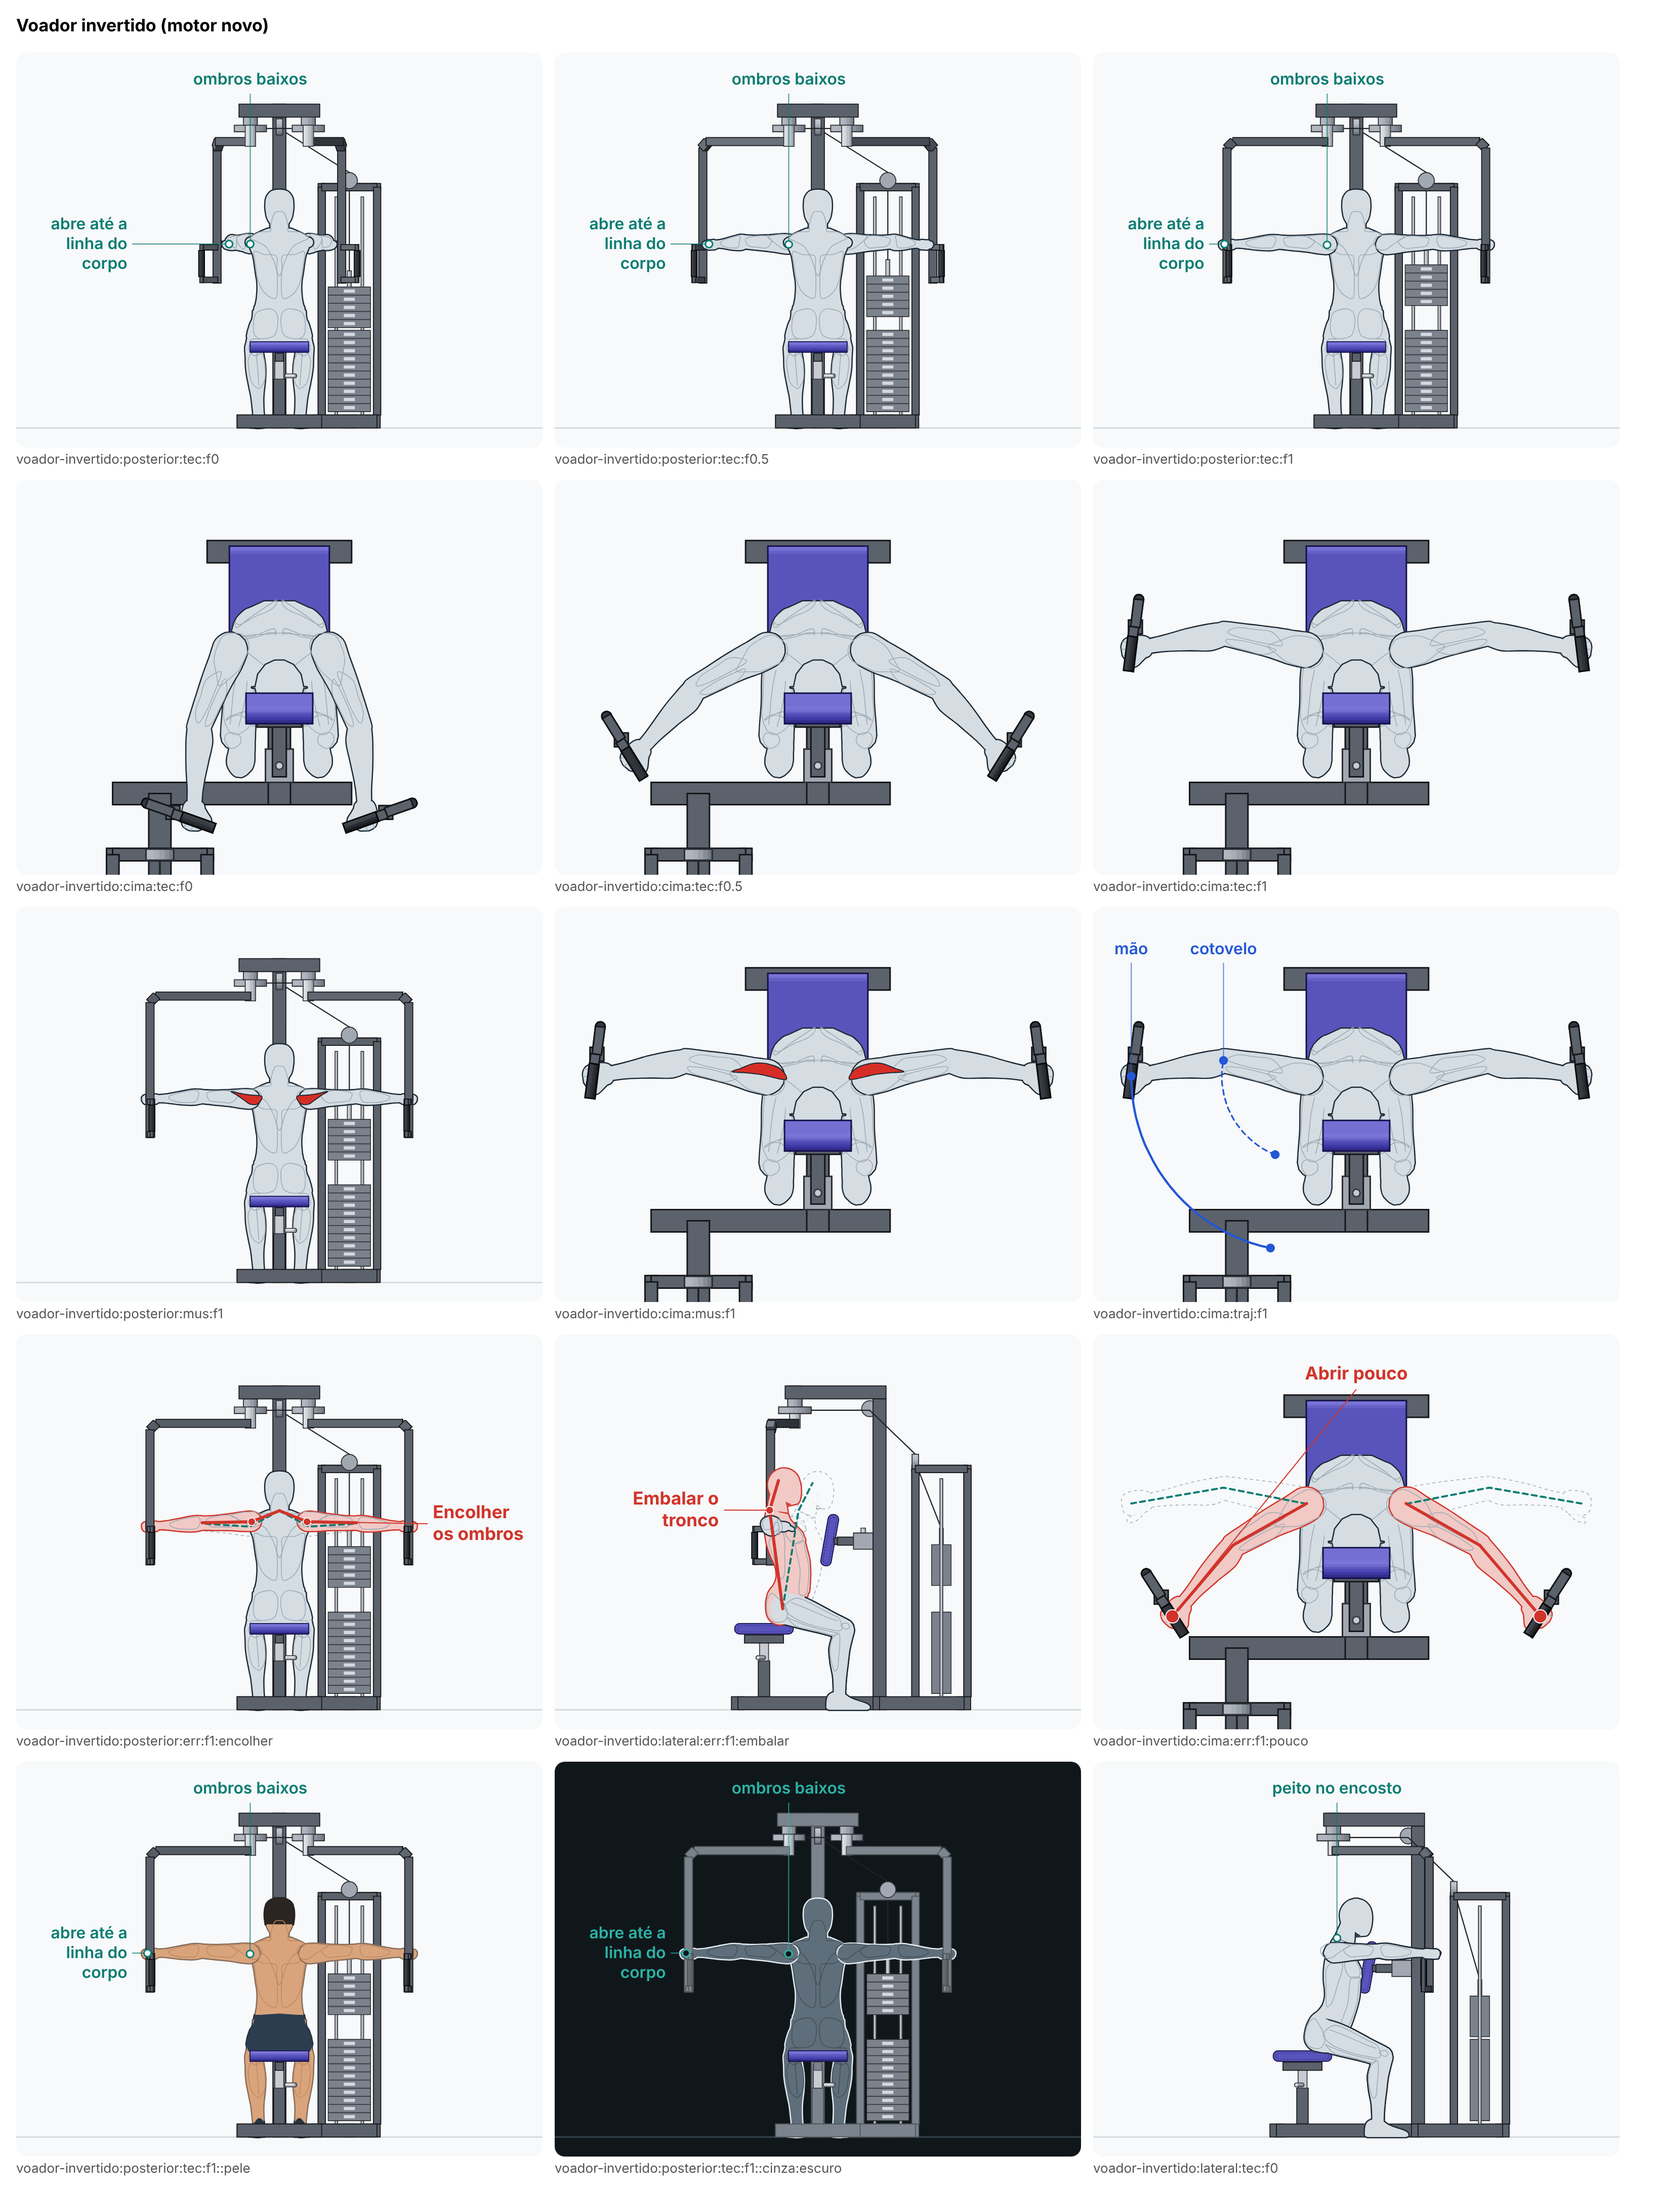
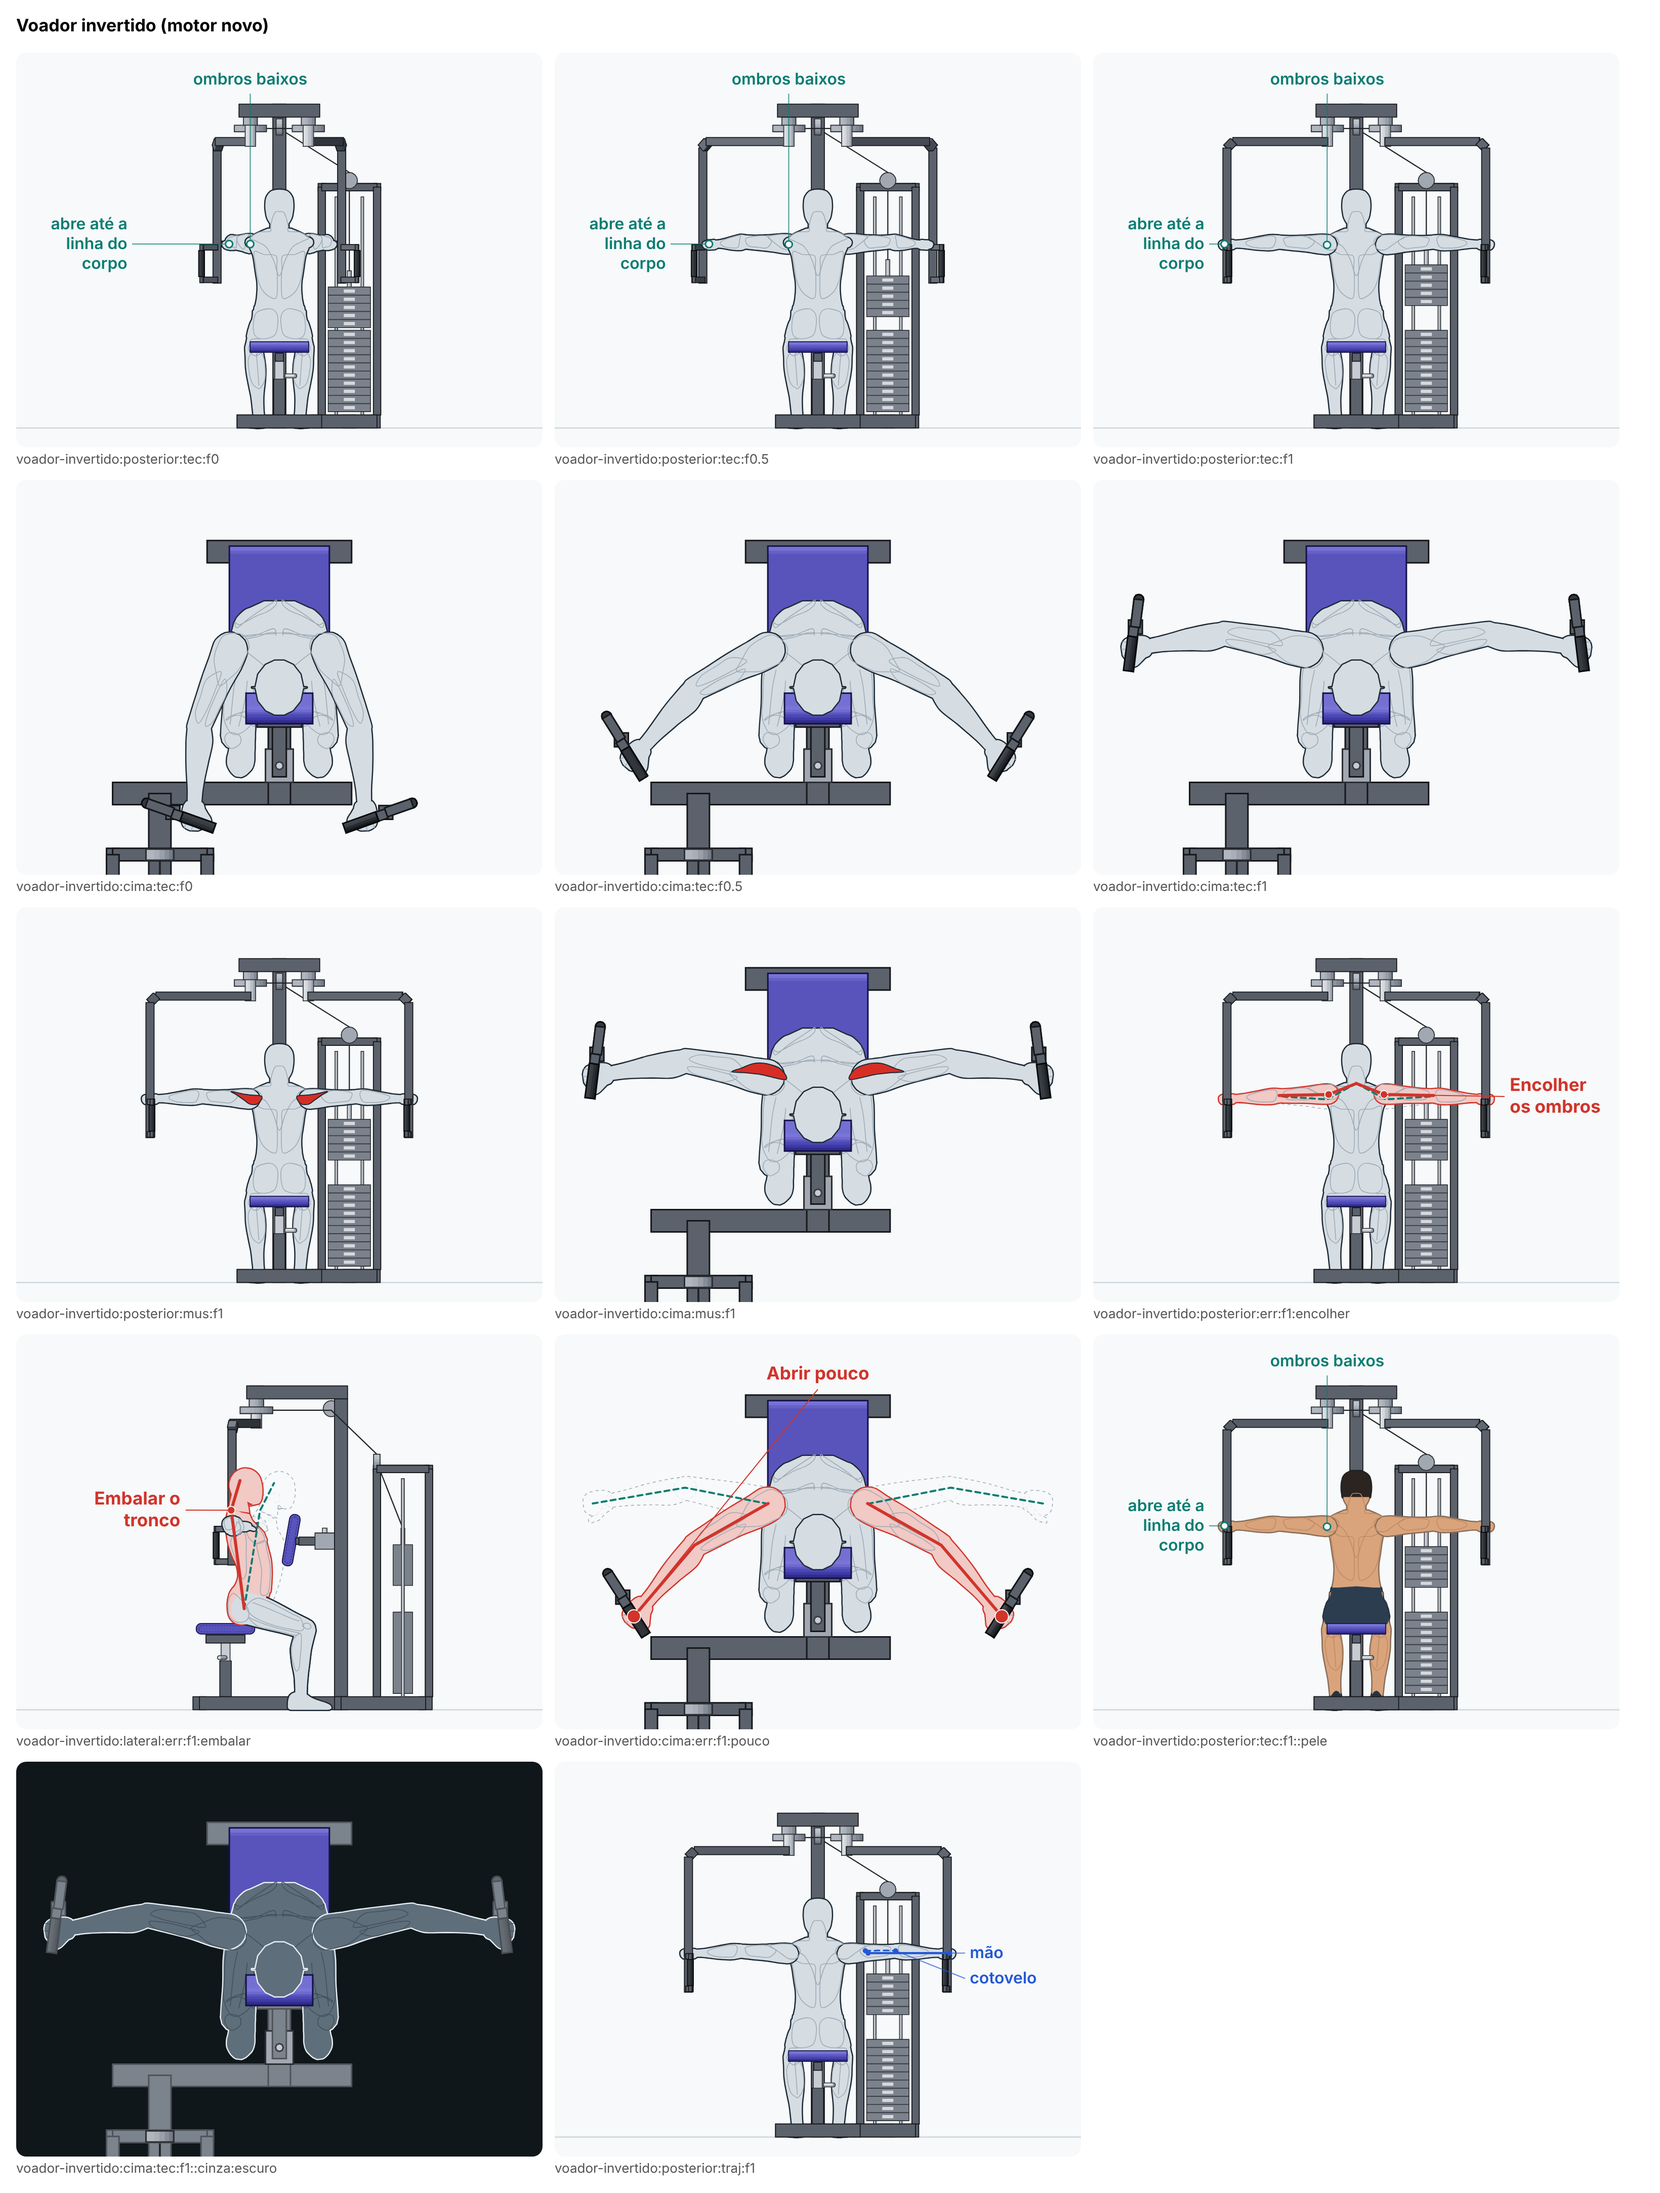
Põe a cabeça do voador invertido por cima do apoio do peito, de cima
De cima, o apoio do peito era pintado por cima da metade de baixo da cabeça: ela ia dentro do item
do corpo, que fica abaixo do apoio (as coxas passam embaixo dele). Opção nova do Boneco, desligada
por padrão (vies.cabecaAParte): a cabeça num item só dela, na própria profundidade. O voador
invertido a liga de cima; o núcleo e o voador não mudam. Regra nova mede cabeça, tronco, braços e
pernas dos dois lados contra o apoio, em todas as vistas e erros.

Claude-Session: https://claude.ai/code/session_01YRzts8DBGbsca9onebcMt1

diff --git a/src/engine/novo/regras/voador.ts b/src/engine/novo/regras/voador.ts
@@ -14,6 +14,9 @@ import type { ModoDoVoador } from '../pecas-de-cena/voador';
 import { obj } from '../tabelas';
 import { angulo, dist, dot, sub } from '../vec';
 import type { V3 } from '../vec';
+import { voadorInvertido } from '../exercicios/voador-invertido';
+import { estofadoEmCaixa, nadaPorBaixo, pinturaNasVistas, textoDaPintura } from './pintura-sobre-o-estofado';
+import type { EstofadoMedido, ParteMedida } from './pintura-sobre-o-estofado';
 
 const LADOS: Lado[] = ['R', 'L'];
 const primeiro = <T>(q: T[]) => q[0]!;
@@ -71,6 +74,23 @@ function sentado(q: Quadro[], onde: string): { medido: string; ok: boolean } {
     ok: a0 >= -1.5 && a1 <= 0.5 && c0 >= -1.5 && c1 <= 0.5 && anda <= 0.5,
   };
 }
+
+/** O apoio do peito do invertido (o encosto da máquina): a caixa de estofado mais alta do quadro (a outra é o assento). */
+function apoioDoPeito(x: Quadro): EstofadoMedido {
+  const cs = x.prims.flatMap((p) => (p.t === 'caixa' && p.cls === 'estofado' ? [p] : []));
+  const c = cs.reduce((a, b) => (b.ref.o[1] > a.ref.o[1] ? b : a));
+  return estofadoEmCaixa(c);
+}
+const PARTES_SOBRE_O_APOIO: ParteMedida[] = [
+  { grupo: 'corpo', volume: 'cabeca' },
+  { grupo: 'corpo', volume: 'tronco' },
+  ...(['R', 'L'] as const).flatMap((k) => [
+    { grupo: `braco${k}`, volume: 'braco' },
+    { grupo: `braco${k}`, volume: 'ante' },
+    { grupo: `perna${k}`, volume: 'coxa' },
+    { grupo: `perna${k}`, volume: 'canela' },
+  ]),
+];
 
 export const REGRAS_VOADOR: Record<string, Regra> = {
   'voador-eixo-no-ombro': (q) => {
@@ -139,5 +159,12 @@ export const REGRAS_VOADOR: Record<string, Regra> = {
     const r = sub(x.esq.lado.R.pegada, x.esq.lado.R.ombro);
     const daLinha = angulo([r[0], 0, r[2]] as V3, [ombros[0], 0, ombros[2]] as V3);
     return { medido: `no começo, os braços ficam ${f1(a0)}° abertos a partir da frente; no fim, a linha do ombro à mão fica ${f1(daLinha)}° fora da linha dos ombros, vista de cima`, ok: a0 <= 20 && daLinha <= 8 };
+  },
+  'voador-invertido-cabeca-por-cima-do-apoio': (q, corpo) => {
+    // (acréscimo de 18/11, a auditoria da fase C) em cada vista do exercício e na de cada erro, os anéis da cabeça, do
+    // tronco e dos braços e pernas dos dois lados que ficam na frente do apoio do peito e por cima dele na tela não
+    // podem ficar por baixo dele na pintura (de cima, o apoio era pintado por cima da metade de baixo da cabeça)
+    const r = pinturaNasVistas(voadorInvertido, q, corpo, apoioDoPeito, PARTES_SOBRE_O_APOIO);
+    return { medido: `anéis pintados por baixo do apoio do peito, de quantos ficam na frente dele e por cima dele na tela (o pior quadro), ${textoDaPintura(r)}`, ok: nadaPorBaixo(r) };
   },
 };

diff --git a/src/engine/novo/boneco.ts b/src/engine/novo/boneco.ts
@@ -825,12 +825,24 @@ export function desenharBoneco(e: Esq, cam: Camera, o: OpcoesDoBoneco): Item[] {
   // `vies.cabeca` > 0 (acréscimo de 18/11, desligado por padrão): a cabeça é pintada de novo por cima do resto do
   // corpo, com o contorno próprio, como o polegar por cima da mão. Vista de cima, sentado, a cabeça fica dentro da
   // silhueta dos ombros, e o contorno do corpo (um só, por fora) não a desenhava: no lugar dela ficava o alto do tronco
-  if (vies('cabeca') > 0) {
+  // `vies.cabecaAParte` (acréscimo de 18/11, desligado por padrão): a mesma cabeça, mas num item só dela, na
+  // profundidade da própria cabeça (mais o valor dado), e não dentro do item do corpo. Vista de cima, no voador
+  // invertido, o apoio do peito fica entre o tronco (abaixo dele) e a cabeça (acima): no item do corpo, a cabeça ia
+  // para baixo do apoio junto com o tronco
+  const cabecaAParte = o.vies?.cabecaAParte;
+  let itemDaCabeca: Item | null = null;
+  if (vies('cabeca') > 0 || cabecaAParte !== undefined) {
     const cab = corpo.cs.filter((v) => v.nome === 'cabeca' || v.nome === 'cabeloAtras' || v.nome === 'calota');
-    s += cab.map((v) => `<path class="b-c${sufDe(corpo)} m-${mat(v.mat)}" d="${v.c.fill}"/>`).join('') + cab.map((v) => `<path class="b-p${sufDe(corpo)} m-${mat(v.mat)}" d="${v.c.fill}"/>`).join('');
+    const sCab = cab.map((v) => `<path class="b-c${sufDe(corpo)} m-${mat(v.mat)}" d="${v.c.fill}"/>`).join('') + cab.map((v) => `<path class="b-p${sufDe(corpo)} m-${mat(v.mat)}" d="${v.c.fill}"/>`).join('');
+    if (cabecaAParte === undefined) s += sCab;
+    else {
+      const c = doCorpo('cabeca');
+      itemDaCabeca = { d: c.d + cabecaAParte, camada: 1, s: sCab, cx: c.cx };
+    }
   }
   const cxCorpo = [corpo, ...pernas].reduce<[number, number, number, number]>((a, x) => [Math.min(a[0], x.cx[0]), Math.min(a[1], x.cx[1]), Math.max(a[2], x.cx[2]), Math.max(a[3], x.cx[3])], [1e9, 1e9, -1e9, -1e9]);
   itens.push({ d: corpo.d + vies('corpo'), camada: 1, s, cx: cxCorpo });
+  if (itemDaCabeca) itens.push(itemDaCabeca);
   // 3) os braços de perto, cada um com o seu contorno, na frente ou atrás do corpo conforme a profundidade
   for (const x of G) {
     if (!x.g.id.startsWith('braco') || x.longe) continue;

diff --git a/src/engine/novo/exercicios/voador-invertido.ts b/src/engine/novo/exercicios/voador-invertido.ts
@@ -38,7 +38,12 @@ function quadro(corpo: Corpo, u: number, erro?: string): Quadro {
     // o tronco vai para trás e o peito sai do encosto; o arco anda junto com o ombro
     Object.assign(i, { bacia: f('erro.embalar.bacia') * x, lombar: f('erro.embalar.lombar') * x, cervical: f('erro.embalar.cervical') * x, arcoSegueOOmbro: true });
   }
-  return noVoador(corpo, O, i, f('inicio'));
+  const q = noVoador(corpo, O, i, f('inicio'));
+  // De cima, o apoio do peito (o centro dele a 104 cm do chão) fica entre o tronco, pintado mais embaixo, e a cabeça
+  // (a 133 cm), que passa por cima da borda dele: a cabeça vai para um item só dela, na própria profundidade (a opção
+  // `cabecaAParte` do Boneco), e o apoio deixa de ser pintado por cima dela. O núcleo (o mesmo do voador) não muda.
+  // A regra voador-invertido-cabeca-por-cima-do-apoio confere.
+  return { ...q, viesNaVista: { ...q.viesNaVista, cima: { ...q.viesNaVista?.cima, cabecaAParte: 0 } } };
 }
 
 export const voadorInvertido: Exercicio = {

diff --git a/docs/revisoes/animacao-nova/lote-C2/voador-invertido.md b/docs/revisoes/animacao-nova/lote-C2/voador-invertido.md
@@ -66,3 +66,28 @@ Nenhuma (as mesmas do voador: arquivos novos, uma linha em cada registro).
 - **De trás, o corpo ocupa pouco mais da metade da altura do quadro**, pela mesma razão do voador (a viga dos eixos a 199 cm).
 - **De cima, o assento aparece grande atrás das costas** (quem senta virado para o encosto fica na ponta da frente do assento) e a base da coluna e a torre ficam embaixo do quadro, cortadas.
 - **No erro de encolher, o cotovelo estica** (é a consequência da mão presa no pegador, mas o erro passa a parecer também "esticar os cotovelos").
+
+## Correção de 18/11 (auditoria)
+
+A auditoria da fase C (`../auditoria-fase-c.md`) achou, de cima, em todos os quadros, o apoio do peito pintado por cima da cabeça: a metade de baixo dela sumia (o queixo fica 3,1 cm acima da borda de cima do apoio e 1,3 cm à frente da face dele).
+
+**Causa.** O Boneco pinta a cabeça dentro do item do corpo, na profundidade média do corpo inteiro; de cima, ela fica em 103,8 cm, e o apoio, pintado como um item só na profundidade do centro dele, em 104,2: o apoio ia por cima do corpo inteiro, cabeça incluída. Subir o corpo todo não serve: as coxas passam **embaixo** do apoio (de cima, as bordas dele cobrem a parte de dentro das coxas) e iam aparecer por cima dele. O apoio tem de ficar entre o tronco e a cabeça.
+
+**O que mudou.**
+- No Boneco (`boneco.ts`), uma opção nova, desligada por padrão: `vies.cabecaAParte`. Com ela, a cabeça (com o contorno próprio, como na opção `cabeca` de 18/11) vai para um item só dela, na profundidade da própria cabeça (mais o valor dado), em vez de ficar dentro do item do corpo. Sem a opção, nada muda: nenhuma outra animação a usa.
+- No exercício (`exercicios/voador-invertido.ts`), de cima, `cabecaAParte: 0`: a cabeça fica em 135,2 cm de profundidade, acima do apoio (104,2) e dos braços (113,0). O núcleo `no-voador.ts`, a peça e o voador não mudaram.
+
+**Antes e depois** (a medida 1 da auditoria, conferindo também que o corpo, pintado sozinho, cobre o pixel):
+
+| de cima | antes | depois |
+|---|---|---|
+| começo, meio e fim; erro "Abrir pouco" | cabeça 5 de 17 anéis por baixo do apoio | 0 |
+| de trás (os dois erros e a técnica) | 0 | 0 |
+
+Sobram, de cima, 1 a 2 anéis de cada canela e pé na quina de baixo do apoio, antes e depois: são pontos na linha do contorno do apoio, e as canelas ficam embaixo dele de verdade (o raio até quem olha passa a 0,5 cm da caixa); não aparecem.
+
+**Conferência nova:** `voador-invertido-cabeca-por-cima-do-apoio` (`regras/voador.ts`, com a medida em `regras/pintura-sobre-o-estofado.ts`). Nas duas vistas do exercício e na de cada erro (de trás, de cima e de lado), nos quadros da técnica e nos dos três erros, conta os anéis da cabeça, do tronco e do braço, do antebraço, da coxa e da canela **dos dois lados** que ficam na frente do apoio do peito e por cima dele na tela, e quantos o pintor põe por baixo dele. Antes: **falha** (de cima, cabeça 13 de 13). Depois: passa (0; de cima, a cabeça tem 13 anéis na frente do apoio; de trás, o tronco 8 e cada braço 1; de lado, nenhum).
+
+**Conferência automática:** 0 falha, 1 aviso (o mesmo de antes).
+
+**O que ainda não ficou bom:** com a cabeça num item próprio, de cima ela também passa por cima de tudo o que fica abaixo dela na pintura (o cabo da pilha, a 124 cm, passava por cima da cabeça e agora passa por baixo, o que está certo, porque a cabeça está mais alta). O rótulo "peito no encosto" (só na vista de lado, que o exercício não declara) continua no C7.
